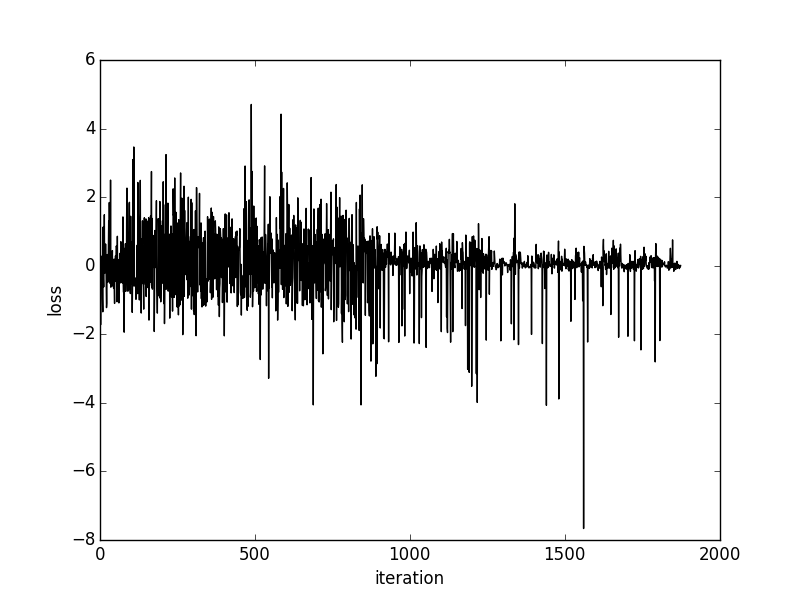
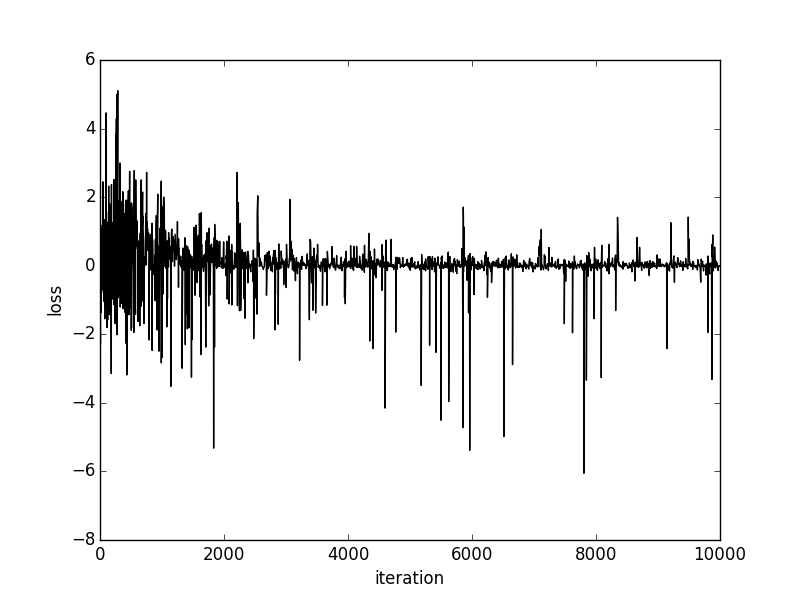
update

diff --git a/agents.py b/agents.py
@@ -299,12 +299,14 @@ class A2C(Agent):
 
             mu = pi[0].data[0]
 
-            # create diagonal covariance matrix
+            # softplus variant
             # sigma2 = F.softplus(pi[1])
+            # C = sigma2.data[0] * np.eye(mu.size)
+            # action = np.random.multivariate_normal(mu, C)
+
+            # exponential variant
             sigma2 = F.exp(pi[1])
             C = sigma2.data[0] * np.eye(mu.size)
-
-            # can probably be done in a numerically more stable manner
             action = np.random.multivariate_normal(mu, C)
 
             # action = mu
@@ -334,11 +336,11 @@ class A2C(Agent):
 
         else:
 
-            # # # transform into variance parameter
+            # softplus variant
             # sigma2 = F.softplus(pi[1])
-            #
             # return - F.sum(0.5 * F.log(2 * math.pi * sigma2) + 1, axis=1)
 
+            # exponential variant
             return - F.sum(0.5 * np.log(2 * math.pi) + 0.5 * pi[1] + 1, axis=1)
 
     def score_function(self, action, pi):
@@ -359,33 +361,30 @@ class A2C(Agent):
 
         else:
 
-            # this requires a general formulation in terms of covariances
-            # Covariance might be essential for complex actions? i.e. we need to be able to induce dependencies between actions!!
 
+            # exponential variant
             mu = pi[0]
             log_sigma2 = pi[1]
             sigma2 = F.exp(pi[1])
+            a = Variable(np.asarray([action], dtype=np.float32))
+            a_dif = a - mu
+            v = -0.5 * F.sum(log_sigma2) -0.5 * F.sum(1.0/sigma2 * a_dif * a_dif)
+            return F.expand_dims(v,0)
 
-            # sigma2 = F.softplus(pi[1])  # needed for numerical stability
-            #
-            # # contents of F.gaussian_nll
-            # x = Variable(np.asarray([action], dtype=np.float32))
-            # D = x.data.size
-            # log_var = F.log(sigma2)  # expected by gaussian_nll
-            # x_prec = exponential.exp(-log_var)
-            # x_diff = x - mu
-            # x_power = (x_diff * x_diff) * x_prec * -0.5
-            # v = - ((sum.sum(log_var) + D * math.log(2 * math.pi)) / 2 - sum.sum(x_power))
-            #
+            # softplus variant
+            # mu = pi[0]
+            # sigma2 = F.softplus(pi[1])
+            # log_sigma2 = F.log(sigma2)
+            # a = Variable(np.asarray([action], dtype=np.float32))
+            # a_dif = a - mu
+            # v = -0.5 * F.sum(log_sigma2) -0.5 * F.sum(1.0/sigma2 * a_dif * a_dif)
+            # return F.expand_dims(v,0)
+
+            # using F.gaussian_nll
             # # sigma2 = F.softplus(pi[1])  # needed for numerical stability
             # # log_var = F.log(sigma2)  # expected by gaussian_nll
             # # v = - F.gaussian_nll(Variable(np.asarray([action], dtype=np.float32)), mu, log_var)
 
-            a = Variable(np.asarray([action], dtype=np.float32))
-            a_dif = a - mu
-            v = -0.5 * F.sum(log_sigma2) -0.5 * F.sum(1.0/sigma2 * a_dif * a_dif)
-
-            return F.expand_dims(v,0)
 
 
     def simulate(self, test_iter):

diff --git a/environments.py b/environments.py
@@ -493,6 +493,7 @@ class RandomDotMotion(Environment):
 #######
 ### Continuous output models
 
+
 class RandomSample(Environment):
     """
     Simple continuous control task that is used to test continuous policy learning algorithms
@@ -504,7 +505,7 @@ class RandomSample(Environment):
     def __init__(self):
         super(Environment, self).__init__()
 
-        self.ninput = 1
+        self.ninput = 2 # includes bias term
         self.naction = 1 # number of action variables; predicted (x,y) position of target
         self.noutput = 1 # number of output variables for the agent (continuous case)
         self.nstates = 1 # number of state variables
@@ -521,19 +522,29 @@ class RandomSample(Environment):
 
         """
 
-        self.state = np.array(np.random.random()-0.5)
+        # self.state = np.array(np.random.random()-0.5)
+        self.state = np.array([0])
+
+        # add bias term
+        obs = np.vstack([self.state, np.array([1])]).reshape([1,2]).astype(np.float32)
 
         # return observation
-        return self.state.reshape([1,1]).astype(np.float32)
+        return obs
 
     def step(self, action):
 
         # reward should minimize distance to target
-        reward = - np.linalg.norm(action - self.state)
 
-        self.state = 10*np.array(np.random.random()-0.5)
+        # MAYBE ALL OF THIS ONLY WORKS FOR EPISODIC TASKS
+        # WHERE WE HAVE POSITIVE OR ZERO REWARDS
+        # reward = - np.linalg.norm(action - self.state)
 
-        obs = self.state.reshape([1,1]).astype(np.float32)
+        if np.abs(action - self.state) < 0.01:
+            reward = 1
+        else:
+            reward = 0
+
+        obs = self.reset()
 
         # we are never done...
         done = False

diff --git a/test_gaussian_mlp.py b/test_gaussian_mlp.py
@@ -43,6 +43,12 @@
 
 # DDPG uses deterministic output and motor noise only for exploration; ...
 
+# Bias term essential?
+
+# Taak misschien klassieker kiezen? episodic;
+# Check mujoco environment en specificatie van reward daar
+
+
 import matplotlib.pyplot as plt
 import numpy as np
 import os
@@ -67,7 +73,7 @@ nprocs = None
 # get file name
 file_name = os.path.splitext(os.path.basename(__file__))[0]
 
-train_iter = 1*10**4 # number training iterations
+train_iter = 1*10**3 # number training iterations
 test_iter = 10**3 # number test iterations
 
 ###########
@@ -78,7 +84,7 @@ env = environments.RandomSample()
 ###########
 # Actor and critic specification
 
-nhidden = 20
+nhidden = 100
 model = mz.GaussianMLP(env.ninput, nhidden, env.noutput, covariance = 'fixed')
 
 ##########

diff --git a/arl.py b/arl.py
@@ -30,7 +30,7 @@ class ARL(object):
 
         self.learning_rates = kwargs.get('learning_rates', np.logspace(-4,-2,100))
 
-    def learn(self, niter, nprocs = None, callback = False):
+    def learn(self, niter, nprocs = None, callback = None):
         """
         Learn model parameters based on asynchronous updates of multiple agents
         :param niter: number of training iterations
